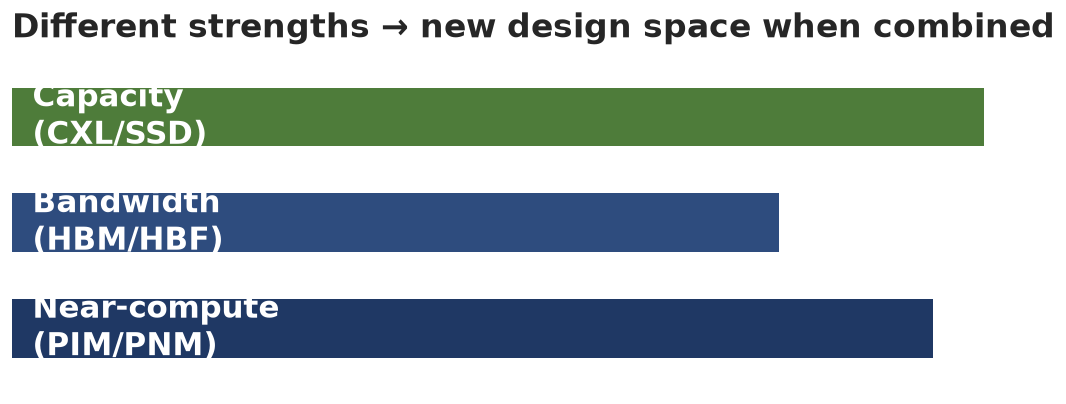
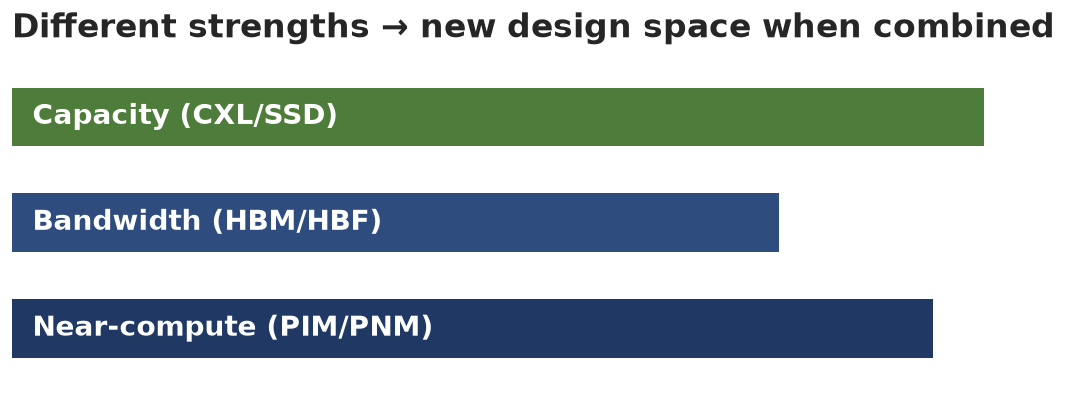
Add 2-page 배경 deck with unified 6-step logic chain
배경/필요성을 나누지 않고 하나의 논리(①병목 심화 → ②업계 해법 →
③승부처의 HW→런타임 이동 → ④자사 포트폴리오 보유 → ⑤실현 계층
공백 → ⑥MCR 설계)로 잇는 과제 배경 2페이지 덱.

- docs/mcr_background_2p.build.js / .pptx: 새 6단 구조 덱
- make_assets.py: 신규 그림 4종 추가 (bg_decision, bg_gap,
  nec_missing, nec_demos) + 텍스트 overflow 수정 (bg_axes, nec_arch,
  bg_decision), CLI로 개별 그림 선택 생성 지원

Claude-Session: https://claude.ai/code/session_01SAvMt6HX1GPpX8DbB6n1c9

Changed region(s): [[0.031, 0.7426, 0.4024, 0.8911], [0.031, 0.4752, 0.3715, 0.6238], [0.031, 0.2079, 0.3405, 0.3564]]

diff --git a/docs/mcr_background_2p.build.js b/docs/mcr_background_2p.build.js
@@ -1,0 +1,51 @@
+// Regenerate: NODE_PATH=<dir-with-pptxgenjs> node docs/mcr_background_2p.build.js
+// 배경·필요성을 나누지 않고 하나의 6단 논리(①~⑥)를 배경 2페이지로 전개한 버전.
+//   1p: ① 병목 심화 → ② 업계의 해법 → ③ 승부처가 HW에서 런타임으로 이동 (세상 이야기)
+//   2p: ④ 자사는 해법의 재료 보유 → ⑤ 실현 계층(SW 스택) 공백 → ⑥ MCR 설계 (우리 이야기)
+// Images are generated locally by docs/mcr_assets/make_assets.py (web is blocked).
+const path = require("path");
+const A = require(path.join(__dirname, "..", ".claude", "skills", "architect-ppt", "lib", "architect_deck"));
+
+const pptx = A.newDeck();
+const OUT = process.argv[2] || path.join(__dirname, "mcr_background_2p.pptx");
+const img = (n) => path.join(__dirname, "mcr_assets", n);
+
+// ───────────── 1. 과제 배경 (1/2) — 병목 · 해법 · 승부처의 이동 ─────────────
+A.pageColumns(pptx, {
+  title: "과제 배경 (1/2)", page: 1, band: "navy",
+  cols: [
+    { header: "① AI 메모리 병목 심화", items: [
+      { text: "대역폭 병목: decode가 추론 시간 지배 — 매 토큰 KV cache 전체 read, 컨텍스트 폭증으로 심화", image: img("bg_decode.png") },
+      { text: "용량 병목: KV cache ∝ 컨텍스트×동시 세션 → HBM 압박, agent 장기 기억이 구조적으로 심화", image: img("bg_kv.png") },
+    ]},
+    { header: "② 업계의 대응 — 메모리 중심 해법", items: [
+      { text: "대역폭 병목 → 근접 연산(PIM/PNM): 연산을 데이터가 있는 곳으로 보내 이동량 자체를 절감", image: img("bg_shift.png") },
+      { text: "용량 병목 → 계층화(tiered offloading): 하위 tier로 내리고 필요 시 회수, HBM 밖 용량 확장", image: img("bg_hierarchy.png") },
+    ]},
+    { header: "③ 승부처의 이동: HW → 런타임", items: [
+      { text: "해법이 만든 결정 문제: 연산 배치 × 데이터 배치가 결합 — tier·디바이스 늘수록 조합 폭증, 오결정 시 baseline보다 악화", image: img("bg_decision.png") },
+      { text: "스펙과 응용 E2E 성능의 gap은 런타임이 결정 — 기존 스택(vLLM)은 'KV=HBM' 가정, 이 계층 부재", image: img("bg_gap.png") },
+    ]},
+  ],
+});
+
+// ───────────── 2. 과제 배경 (2/2) — 자산 · 공백 · 과제 정의 ─────────────
+A.pageColumns(pptx, {
+  title: "과제 배경 (2/2)", page: 2, band: "navy",
+  cols: [
+    { header: "④ 자사: 해법의 재료 보유", items: [
+      { text: "근접 연산(PIM·CIM)부터 계층화(CXL·tiered memory)까지 — ②의 두 방향 모두 제품 포트폴리오로 확보", image: img("bg_devices.png") },
+      { text: "근접연산·대역폭·용량의 상이한 축 — 조합 시 GPU HBM 단일 체계로 불가능한 설계 공간", image: img("bg_axes.png") },
+    ]},
+    { header: "⑤ 그러나: 실현 계층의 공백", items: [
+      { text: "디바이스 가치는 단품 스펙이 아니라 응용(LLM 추론) E2E 성능으로만 실현·입증됨 (←③)", image: img("nec_missing.png") },
+      { text: "단품 데모는 있어도, 포트폴리오를 응용과 연결해 시스템 관점 E2E 성능을 증명할 레퍼런스 SW 스택 부재", image: img("nec_demos.png") },
+    ]},
+    { header: "⑥ 과제: 메모리 중심 런타임 설계", items: [
+      { text: "자사 포트폴리오를 1급 자원으로 — 배치·이동·압축·재사용을 조율하는 MCR(Memory-Centric Runtime) 설계", image: img("nec_arch.png") },
+      { text: "자사 제품군의 레퍼런스 SW 스택이자, GPU HBM 단일 tier 대비 개선을 정량 입증하는 E2E 증명 수단", image: img("nec_e2e.png") },
+    ]},
+  ],
+});
+
+A.writeDeck(pptx, OUT).then((f) => console.log("wrote", f));

diff --git a/docs/mcr_assets/make_assets.py b/docs/mcr_assets/make_assets.py
@@ -68,9 +68,9 @@ def bg_devices():
 # 4. Complementary axes
 def bg_axes():
     fig, ax = plt.subplots()
-    labs=["Near-compute\n(PIM/PNM)","Bandwidth\n(HBM/HBF)","Capacity\n(CXL/SSD)"]; vals=[0.9,0.75,0.95]; cols=[NAVY,NAVYL,GREEN]
+    labs=["Near-compute (PIM/PNM)","Bandwidth (HBM/HBF)","Capacity (CXL/SSD)"]; vals=[0.9,0.75,0.95]; cols=[NAVY,NAVYL,GREEN]
     ax.barh(range(3),vals,color=cols,height=0.55)
-    for i,l in enumerate(labs): ax.text(0.02,i,l,va="center",ha="left",color="white",fontsize=11,fontweight="bold")
+    for i,l in enumerate(labs): ax.text(0.02,i,l,va="center",ha="left",color="white",fontsize=10,fontweight="bold")
     ax.set_xlim(0,1); ax.set_ylim(-0.6,2.6); ax.axis("off")
     ax.text(0,2.75,"Different strengths → new design space when combined",fontsize=12,color=INK,fontweight="bold")
     save(fig,"bg_axes.png",6.6,2.2)
@@ -100,7 +100,7 @@ def bg_hierarchy():
 def nec_arch():
     fig, ax = plt.subplots(); ax.set_xlim(-0.2,10.2); ax.set_ylim(0,4.2); ax.axis("off")
     box(ax,0.5,3.1,9,0.8,"Application  /  LLM Serving",ICE,NAVY,tc=NAVY,fs=12.5)
-    box(ax,0.5,1.5,9,1.3,"MCR Runtime  ·  Policy | Mechanism  ·  Topology Model",NAVY,NAVY,fs=12)
+    box(ax,0.5,1.5,9,1.3,"MCR Runtime  ·  Policy | Mechanism  ·  Topology Model",NAVY,NAVY,fs=10.5)
     box(ax,0.5,0.2,9,0.8,"Devices (PIM·PNM·HBF·CXL) — parameterized plug-in",GREEN,GREEN,fs=12)
     arrow(ax,5,3.05,5,2.85,color=GRAY,lw=2); arrow(ax,5,1.45,5,1.05,color=GRAY,lw=2)
     ax.text(0.5,4.05,"Heterogeneous memory as a first-class runtime concept",fontsize=11.5,color=INK,fontweight="bold")
@@ -143,6 +143,65 @@ def nec_e2e():
     for s in ["top","right"]: ax.spines[s].set_visible(False)
     save(fig,"nec_e2e.png",7.4,2.5)
 
+# 11. Coupled decision problem created by the two solutions
+def bg_decision():
+    fig, ax = plt.subplots(); blank(ax)
+    box(ax,0.25,1.5,4.3,1.8,"Compute placement\nops → near-memory?\n(PIM/PNM)",NAVY,NAVY,fs=10.5)
+    box(ax,5.45,1.5,4.3,1.8,"Data placement\ntier? move? compress?\nrecompute?",GREEN,GREEN,fs=10.5)
+    arrow(ax,4.65,2.4,5.35,2.4,color=INK,lw=2.6,style="<|-|>",ms=18)
+    ax.text(5,3.75,"HW cannot answer these decisions — and they are coupled",ha="center",fontsize=12,color=INK,fontweight="bold")
+    ax.text(5,0.85,"tiers × devices × requests → combinatorial space  ·  wrong policy < baseline",
+            ha="center",fontsize=10.5,color=GRAY,fontweight="bold")
+    save(fig,"bg_decision.png",6.6,2.4)
+
+# 12. Spec vs realized E2E gap — the runtime decides it (illustrative)
+def bg_gap():
+    fig, ax = plt.subplots()
+    vals=[1.0,0.45,0.9]; cols=[NAVYL,GRAY,GREEN]
+    labs=["Device spec\n(peak)","Realized E2E\n(static policy)","Realized E2E\n(runtime-orchestrated)"]
+    ax.bar(range(3),vals,color=cols,width=0.55)
+    ax.axhline(1.0,ls="--",color=NAVY,lw=1.6)
+    ax.annotate("",xy=(1,0.98),xytext=(1,0.47),arrowprops=dict(arrowstyle="<->",color=INK,lw=1.8))
+    ax.text(1.12,0.72,"gap =\nruntime's job",fontsize=10,color=INK,fontweight="bold",va="center")
+    ax.set_xticks(range(3)); ax.set_xticklabels(labs,fontsize=9.5)
+    ax.set_ylim(0,1.25); ax.set_yticks([])
+    ax.set_title("Spec vs realized E2E performance — decided by the runtime (illustrative)",
+                 fontsize=11,color=INK,fontweight="bold",loc="left")
+    for s in ["top","right","left"]: ax.spines[s].set_visible(False)
+    save(fig,"bg_gap.png",6.6,2.5)
+
+# 13. Missing realization layer between app and devices
+def nec_missing():
+    fig, ax = plt.subplots(); ax.set_xlim(-0.2,10.2); ax.set_ylim(0,4.2); ax.axis("off")
+    box(ax,0.5,3.1,9,0.8,"Application  /  LLM Inference",ICE,NAVY,tc=NAVY,fs=12.5)
+    ax.add_patch(FancyBboxPatch((0.5,1.5),9,1.3,boxstyle="round,pad=0.01,rounding_size=0.06",
+        linewidth=2.0,edgecolor=GRAY,facecolor=WHITE,linestyle="--"))
+    ax.text(5,2.15,"Reference SW stack — MISSING",ha="center",va="center",color=GRAY,fontsize=13,fontweight="bold")
+    box(ax,0.5,0.2,9,0.8,"Memory device portfolio (PIM · CIM · CXL · Tiered)",GREEN,GREEN,fs=12)
+    ax.plot([5,5],[3.05,2.85],ls=":",color=GRAY,lw=2); ax.plot([5,5],[1.45,1.05],ls=":",color=GRAY,lw=2)
+    ax.text(0.5,4.05,"Device value cannot reach the application — realization layer absent",
+            fontsize=11.5,color=INK,fontweight="bold")
+    save(fig,"nec_missing.png",7.4,2.6)
+
+# 14. Per-device unit demos exist; integrated E2E stack does not
+def nec_demos():
+    fig, ax = plt.subplots(); blank(ax)
+    for i,n in enumerate(["PIM\ndemo","CXL\ndemo","Tiered\ndemo"]):
+        box(ax,0.3+i*1.45,1.6,1.25,1.35,n,NAVYL,NAVYL,fs=10)
+    ax.text(2.4,0.85,"unit demos — exist",ha="center",fontsize=10.5,color=NAVY,fontweight="bold")
+    arrow(ax,4.85,2.3,5.55,2.3,color=GRAY,lw=2.2,ms=16)
+    ax.add_patch(FancyBboxPatch((5.8,1.3),3.9,1.9,boxstyle="round,pad=0.01,rounding_size=0.06",
+        linewidth=2.0,edgecolor=GRAY,facecolor=WHITE,linestyle="--"))
+    ax.text(7.75,2.25,"Integrated E2E\nreference stack",ha="center",va="center",color=GRAY,fontsize=11.5,fontweight="bold")
+    ax.text(7.75,0.85,"system-level — absent",ha="center",fontsize=10.5,color=GRAY,fontweight="bold")
+    ax.text(5,3.75,"Unit demos ≠ system-level E2E proof",ha="center",fontsize=12,color=INK,fontweight="bold")
+    save(fig,"nec_demos.png",6.6,2.4)
+
 if __name__=="__main__":
-    for f in [bg_decode,bg_kv,bg_devices,bg_axes,bg_shift,bg_hierarchy,nec_arch,nec_orch,nec_stack,nec_e2e]:
-        f(); print("wrote", f.__name__)
+    import sys
+    ALL=[bg_decode,bg_kv,bg_devices,bg_axes,bg_shift,bg_hierarchy,nec_arch,nec_orch,nec_stack,nec_e2e,
+         bg_decision,bg_gap,nec_missing,nec_demos]
+    names=sys.argv[1:]
+    for f in ALL:
+        if not names or f.__name__ in names:
+            f(); print("wrote", f.__name__)